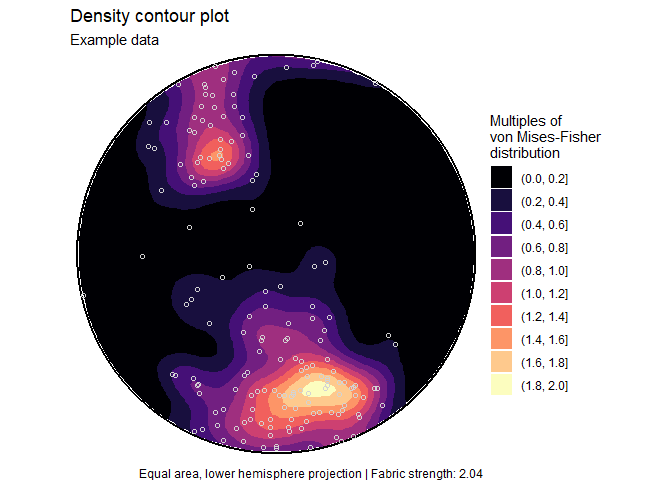
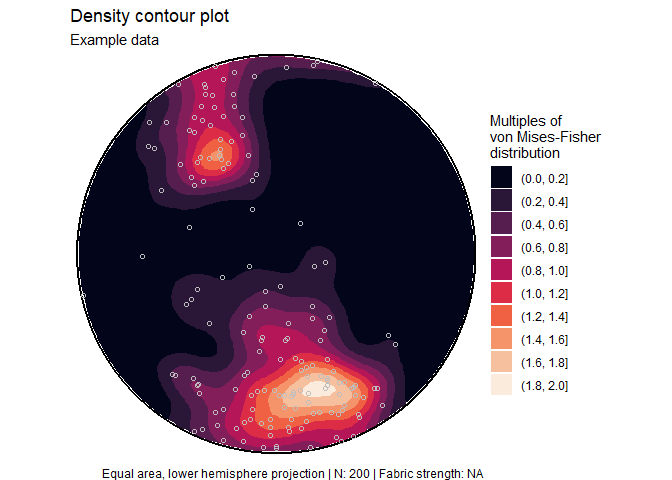
update

diff --git a/README.md b/README.md
@@ -47,17 +47,17 @@ library(ggplot2)
 data(example_planes)
 planes <- Plane(example_planes$dipdir, example_planes$dip)
 
-fabric_strength <- fabric_indexes(planes)
+fabric <- or_shape_params(planes)$Vollmer['D']
 
 ggstereo() +
-  geom_contourf_stereo(gg(planes), show.legend = TRUE) +
-  geom_point(data = gg(planes), aes(x, y), color = "lightgrey", shape = 21) +
-  scale_fill_viridis_d(option = "A") +
+  geom_contourf_stereo(gg(planes)) +
+  geom_point(data = gg(planes), aes(x, y), color = "grey", shape = 21) +
+  scale_fill_viridis_d(option = "F") +
   labs(
     subtitle = "Example data",
     title = "Density contour plot",
     fill = "Multiples of\nvon Mises-Fisher\ndistribution",
-    caption = paste0("Equal area, lower hemisphere projection | Fabric strength: ", round(fabric_strength["C"], 2))
+    caption = paste0("Equal area, lower hemisphere projection | N: ", nrow(planes), " | Fabric strength: ", round(fabric, 2))
   )
 ```
 
